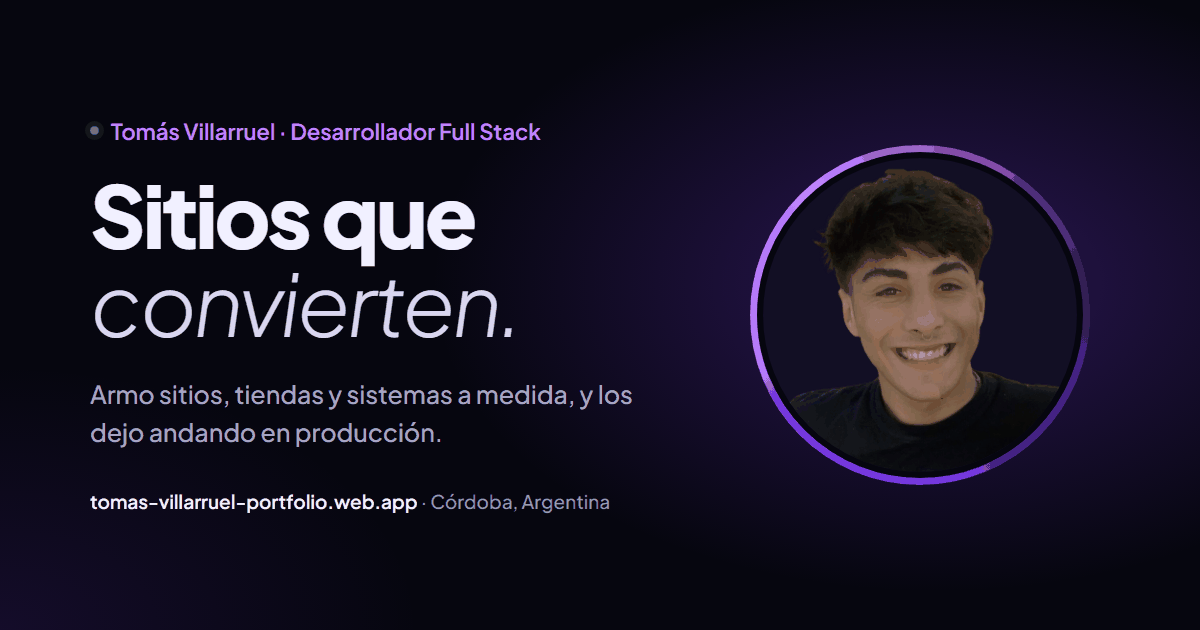
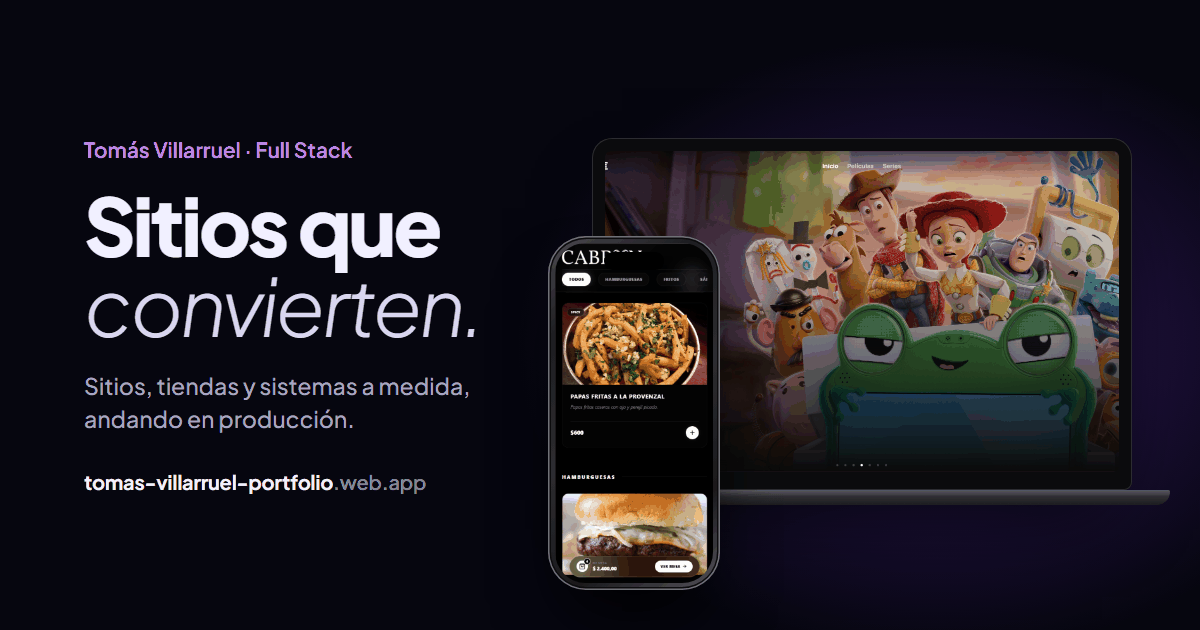
feat(seo): nueva imagen para compartir (opción B: MacBook + iPhone)
Título 'Sitios que convierten.' con ReelVERSE en MacBook y Cabrón en iPhone,
los mismos mockups realistas de Proyectos. Alt de og/twitter actualizado.

diff --git a/src/index.html b/src/index.html
@@ -32,7 +32,7 @@
   <meta property="og:image:width" content="1200">
   <meta property="og:image:height" content="630">
   <meta property="og:image:type" content="image/png">
-  <meta property="og:image:alt" content="Tomás Villarruel — Desarrollador Full Stack Portfolio">
+  <meta property="og:image:alt" content="Tomás Villarruel, desarrollador Full Stack: sitios que convierten, con proyectos en MacBook y iPhone">
   <meta property="og:locale" content="es_AR">
   <meta property="og:site_name" content="Tomás Villarruel — Portfolio Profesional">
 
@@ -42,7 +42,7 @@
   <meta name="twitter:title" content="Tomás Villarruel | Desarrollador Full Stack en Córdoba (Angular, NestJS)">
   <meta name="twitter:description" content="Desarrollador Full Stack en Córdoba, Argentina. Sitios, e-commerce y sistemas a medida con Angular, NestJS y PostgreSQL. Proyectos publicados y contacto directo.">
   <meta name="twitter:image" content="https://tomas-villarruel-portfolio.web.app/assets/og-image.png">
-  <meta name="twitter:image:alt" content="Tomás Villarruel — Portfolio Desarrollador Full Stack">
+  <meta name="twitter:image:alt" content="Tomás Villarruel, desarrollador Full Stack: sitios que convierten, con proyectos en MacBook y iPhone">
 
   <!-- Favicons & Web App Manifest -->
   <link rel="icon" type="image/x-icon" href="favicon.ico">
